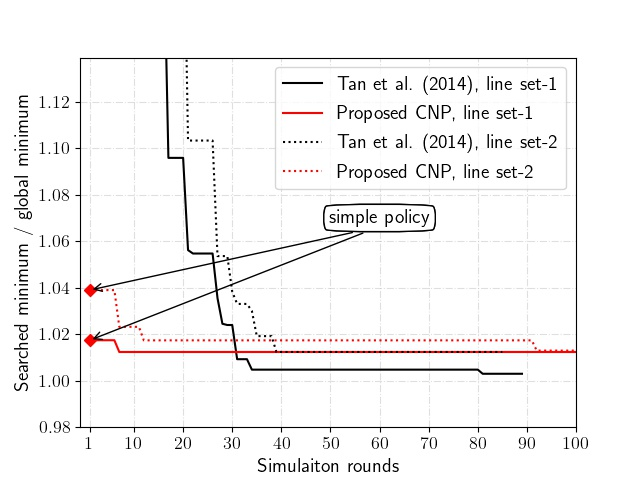
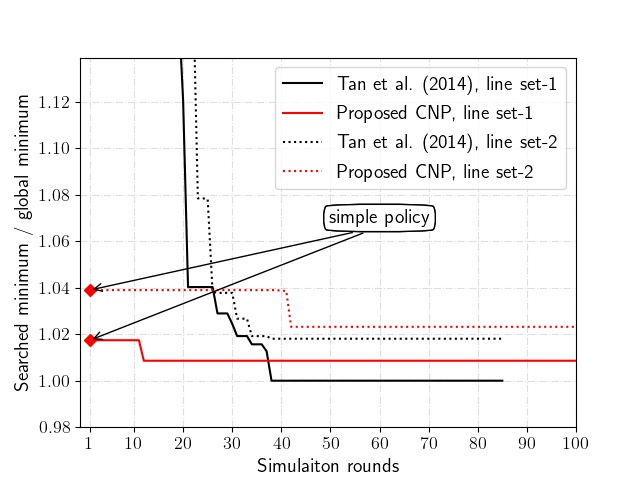
added cnp method for c>2

Changed region(s): [[0.1562, 0.125, 0.9062, 0.8125]]

diff --git a/plot_c=4.py b/plot_c=4.py
@@ -1,0 +1,101 @@
+import matplotlib.pyplot as plt
+from plot_settings import get_curve_plot
+import numpy as np
+from arena import sacred_to_df
+from pymongo import MongoClient
+import pandas as pd
+
+client = MongoClient("localhost", 27017)
+db = client["c4_case"]
+# collection = db["runs"]
+
+berth_num = 4
+line_num = 12
+arrival_type = "Gaussian"
+queue_rule = "FIFO"
+signal_setting = None
+# signal_setting = (120, 0.5, 3)
+
+db_query = {
+    "config.queue_rule": queue_rule,
+    "config.berth_num": berth_num,
+    "config.line_num": line_num,
+    "config.arrival_type": arrival_type,
+}
+if signal_setting is None:
+    db_query["config.signal_setting"] = None
+else:
+    db_query["config.cycle_length"] = signal_setting[0]
+    db_query["config.green_ratio"] = signal_setting[1]
+    db_query["config.buffer_size"] = signal_setting[2]
+
+df = sacred_to_df(db.runs, db_query)
+### CNP df
+cnp_df = df[df["is_CNP"] == True].copy()
+cnp_delays = cnp_df["history_min_delays"].tolist()[0]
+
+### perturb df
+perturb_df = df[df["is_CNP"] == False].copy()
+perturb_df["delay"] = perturb_df["delay_seq"].apply(
+    lambda x: x[-1] if isinstance(x, list) else None
+)
+perturb_delays = perturb_df["delay"].to_numpy()
+sorted_perturb_delays = np.sort(perturb_delays)
+
+# ### generate figures for each queueing rule
+fig, ax = get_curve_plot(
+    x_label="Number of randomly-generated allocation plans",
+    y_label="Average bus delay in desceding order",
+    x_font=15,
+    y_font=15,
+)
+
+# ### set range
+perturb_x = np.arange(1, len(sorted_perturb_delays) + 1, 1)
+x_ticks = [1]
+x_ticks.extend(list(np.arange(50, len(sorted_perturb_delays) + 1, 50)))
+
+cnp_x = np.arange(1, len(cnp_delays) + 1, 1)
+
+# # ### plot
+ax.set_xticks(x_ticks)
+ax.tick_params(axis="both", which="major", labelsize=14)
+ax.set_xlim([1, 500])
+ax.set_ylim([60, 80])
+ax.plot(
+    perturb_x,
+    sorted_perturb_delays,
+    linestyle="dotted",
+    color="k",
+    label="random perturbation in descending order",
+)
+ax.plot(cnp_x, cnp_delays, linestyle="solid", color="k", label="Proposed CNP method")
+
+
+# ax.plot(
+#     x, [simple_delay] * len(x), linestyle="dashed", color="k", label="simple policy"
+# )
+
+# ax.annotate(
+#     "simple policy",
+#     xy=(20, simple_delay),
+#     xytext=(150, simple_delay + 40),
+#     size=15,
+#     va="center",
+#     ha="center",
+#     bbox=dict(boxstyle="round4", fc="w"),
+#     arrowprops=dict(
+#         arrowstyle="->", connectionstyle="arc3,rad=0.0", relpos=(0.0, 0.0), fc="w",
+#     ),
+# )
+
+if signal_setting is not None:
+    fig_str = (
+        "figs_in_paper/perturb_c=" + str(berth_num) + "_" + queue_rule + "_signal.jpg"
+    )
+else:
+    fig_str = (
+        "figs_in_paper/perturb_c=" + str(berth_num) + "_" + queue_rule + "_iso.jpg"
+    )
+fig.savefig(fig_str)
+

diff --git a/plot_c=2.py b/plot_c=2.py
@@ -14,7 +14,7 @@ signal_setting = None
 # signal_setting = (120, 0.5, 3)
 
 ### figure setting
-line_styles_dict = {"FIFO": "solid", "LO-Out": "dashed", "FO-Free": "dotted"}
+# line_styles_dict = {"FIFO": "solid", "LO-Out": "dashed", "FO-Free": "dotted"}
 
 # algo_line_colors_dict = {"Tan": "#ff1654", "CNP": "#0a1128"}
 algo_line_colors_dict = {"Tan": "black", "CNP": "red"}
@@ -51,6 +51,7 @@ for queue_rule in ["FIFO", "LO-Out", "FO-Free"]:
             set_no,
         )
         ### result df
+        print("----", queue_rule, "----")
         tan_case_df = get_case_df_from_db(stop_setting, signal_setting, algorithm="Tan")
         tan_norm_history_delays = tan_case_df.norm_history_delays.tolist()[0]
         cnp_case_df = get_case_df_from_db(stop_setting, signal_setting, algorithm="CNP")

diff --git a/algo_experiment.py b/algo_experiment.py
@@ -6,7 +6,7 @@ from tan_algo import apply_tan_algo, get_global_min_delay
 from sacred.observers import MongoObserver
 
 algo_ex = Experiment()
-algo_ex.observers.append(MongoObserver(url="localhost:27017", db_name="numerical_case"))
+algo_ex.observers.append(MongoObserver(url="localhost:27017", db_name="c2_case"))
 # algo_ex.observers.append(MongoObserver(url="localhost:27017", db_name="ggg"))
 
 
@@ -58,7 +58,7 @@ def main(
     else:
         for sim_budget in [100]:
             for max_depth in [4]:
-                for sample_num_of_each_region in [5]:
+                for sample_num_of_each_region in [10]:
                     algo_ex.info["sim_budget"] = sim_budget
                     algo_ex.info["max_depth"] = max_depth
                     algo_ex.info[

diff --git a/isolated_main_cnp.py b/isolated_main_cnp.py
@@ -6,10 +6,11 @@ from line_profile import get_generated_line_info
 from isolated_scenario import sim_one_isolated_scenario
 from cnp_algo import apply_cnp_algo
 
+### for c=4 case, directly simulate, (without accessing the cache)
 cnp_ex = Experiment()
 
 if not cnp_ex.observers:
-    cnp_ex.observers.append(MongoObserver(url="localhost:27017", db_name="qqq"))
+    cnp_ex.observers.append(MongoObserver(url="localhost:27017", db_name="c4_case"))
 
 
 @cnp_ex.config
@@ -17,8 +18,8 @@ def config():
     seed = 1
     is_CNP = True  # True means using CNP, otherwise means perturbation
 
-    # queue_rule = "FO-Bus"
-    queue_rule = "FO-Free"
+    queue_rule = "FIFO"
+    # queue_rule = "FO-Free"
     berth_num = 4
     line_num = 12
     total_flow = None

diff --git a/isolated_main_perturb.py b/isolated_main_perturb.py
@@ -7,7 +7,7 @@ from experiment import ex
 @ex.config
 def config():
     seed = 1
-    queue_rule = "FO-Bus"
+    queue_rule = "FIFO"
     # queue_rule = "LO-Out"
     berth_num = 4
     line_num = 12
@@ -22,9 +22,10 @@ def config():
 
 def run(assign_plan_str):
     if not ex.observers:
-        ex.observers.append(
-            MongoObserver(url="localhost:27017", db_name="perturb_stop")
-        )
+        ex.observers.append(MongoObserver(url="localhost:27017", db_name="c4_case"))
+        # ex.observers.append(
+        #     MongoObserver(url="localhost:27017", db_name="perturb_stop")
+        # )
     run = ex.run(config_updates={"assign_plan_str": assign_plan_str})
 
 

diff --git a/arena.py b/arena.py
@@ -213,7 +213,7 @@ def get_run_df_from_near_stop_db(stop_setting, signal_setting):
 
 def get_case_df_from_db(stop_setting, signal_setting, algorithm):
     client = MongoClient("localhost", 27017)
-    db = client["numerical_case"]
+    db = client["case"]
 
     (
         queue_rule,
@@ -244,7 +244,7 @@ def get_case_df_from_db(stop_setting, signal_setting, algorithm):
 
     if algorithm == "CNP":
         appended_query_str = "and max_depth=={} and sample_num_of_each_region=={}".format(
-            4, 6
+            4, 10
         )
         query = query + appended_query_str
 

diff --git a/algo_main.py b/algo_main.py
@@ -36,5 +36,5 @@ def config():
 #         algo_ex.run(config_updates={"set_no": set_no, "queue_rule": queue_rule})
 
 for set_no in [0, 1]:
-    for queue_rule in ["FO-Free"]:
+    for queue_rule in ["FIFO", "LO-Out", "FO-Free"]:
         algo_ex.run(config_updates={"set_no": set_no, "queue_rule": queue_rule})

diff --git a/isolated_main_simple.py b/isolated_main_simple.py
@@ -17,8 +17,9 @@ def config():
     # is_CNP = True  # True means using CNP, otherwise means perturbation
 
     # stop
-    queue_rule = "FO-Bus"
+    # queue_rule = "FO-Bus"
     # queue_rule = "LO-Out"
+    queue_rule = "FIFO"
     berth_num = 4
     line_num = 12
     total_flow = None
